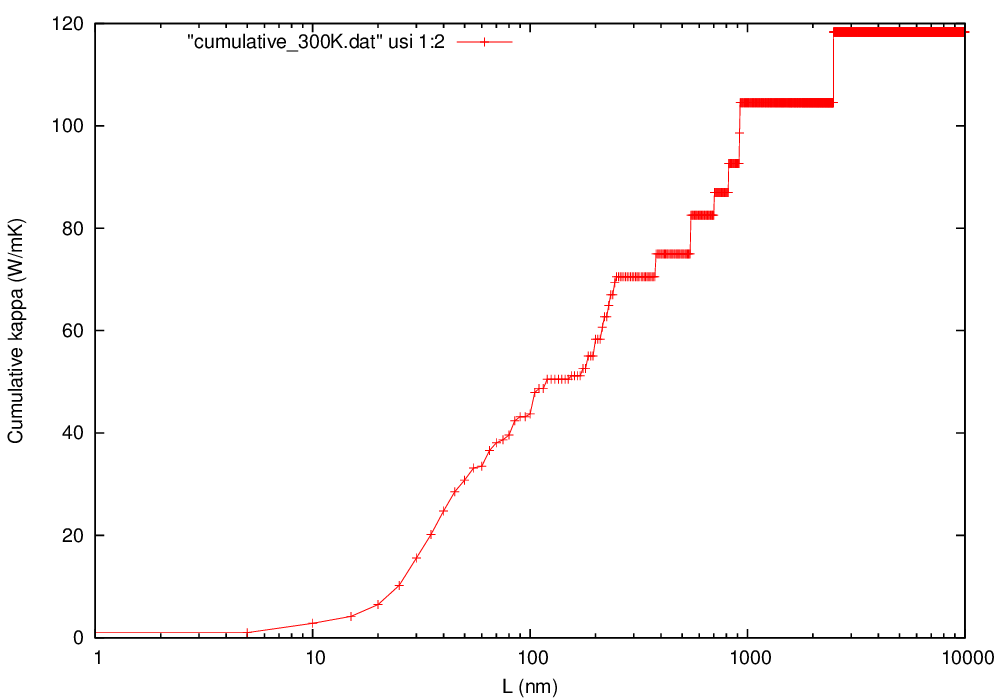
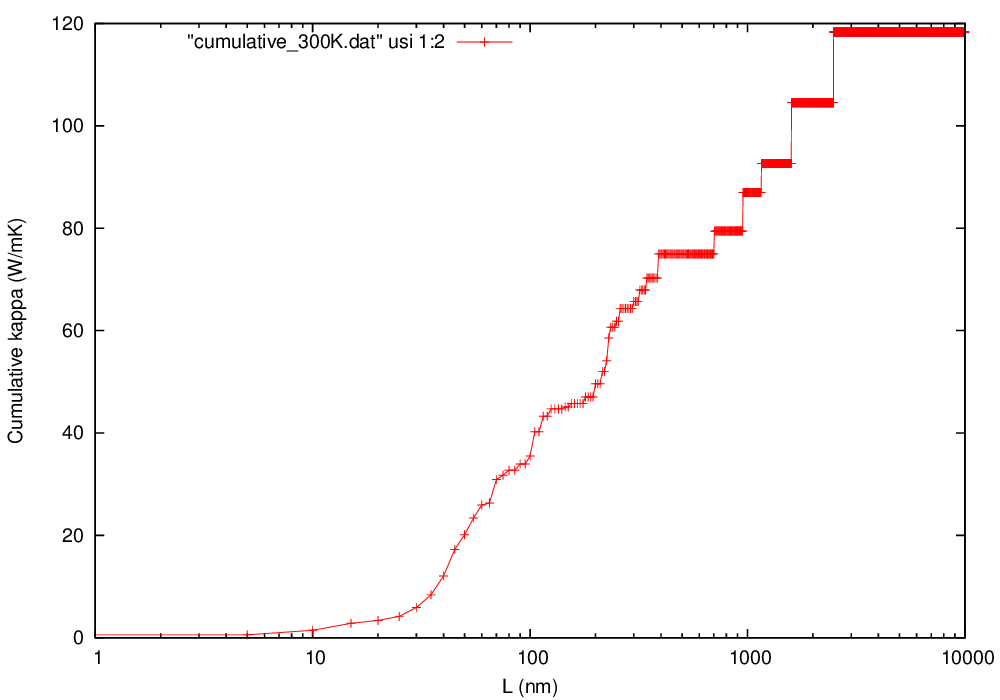
Added some descriptions in the documentation.

diff --git a/docs/source/formalism/formalism_anphon.rst b/docs/source/formalism/formalism_anphon.rst
@@ -309,7 +309,24 @@ The phonon lifetime is estimated using the Matthiessen's rule as
 
 The lattice thermal conductivity will be written to the file ``PREFIX``.kl.
 
+Cumulative thermal conductivity
+-------------------------------
 
+The accumulative lattice thermal conductivity :math:`\kappa_{\mathrm{ph,acc}}^{\mu\nu}(L)` is defined as
+
+.. math::
+  
+  \kappa_{\mathrm{ph,acc}}^{\mu\mu}(L) = \frac{1}{\Omega N_{q}} \sum_{\boldsymbol{q},j}c_{\boldsymbol{q}j}v_{\boldsymbol{q}j}^{\mu}v_{\boldsymbol{q}j}^{\mu}\Theta (L-|\boldsymbol{v}_{\boldsymbol{q}j}|\tau_{\boldsymbol{q}j}),
+
+where :math:`\Theta(x)` is the step function. This quantity can be calculated by using the script ``analyze_phonons.py`` with ``--calc cumulative`` flag. 
+One can also use another definition for the accumulative thermal conductivity:
+
+.. math::
+  
+  \kappa_{\mathrm{ph,acc}}^{\mu\nu}(L) = \frac{1}{\Omega N_{q}} \sum_{\boldsymbol{q},j}c_{\boldsymbol{q}j}v_{\boldsymbol{q}j}^{\mu}v_{\boldsymbol{q}j}^{\nu}\Theta (L-|v_{\boldsymbol{q}j}^{\mu}|\tau_{\boldsymbol{q}j}).
+
+In this case, the contribution to the total thermal conductivity is limited only from phonon modes whose mean-free-path along the :math:`\mu`\ -direction is smaller than :math:`L`.
+To calculate this, please use the ``--calc cumulative2`` flag and specify the direction :math:`\mu` by the ``--direction`` option.
 
 Delta function
 --------------

diff --git a/docs/source/tutorial.rst b/docs/source/tutorial.rst
@@ -375,7 +375,7 @@ You can extract phonon lifetime from this file as::
 You can also estimate the cumulative thermal conductivity by
 ::
 
-    $ analyze_phonons.py --calc cumulative --temp 300 --length 10000:5 --direction 1 > cumulative_300K.dat
+    $ analyze_phonons.py --calc cumulative --temp 300 --length 10000:5 > cumulative_300K.dat
     $ gnuplot
     gnuplot> set logscale x
     gnuplot> plot "cumulative_300K.dat" using 1:2 w lp
